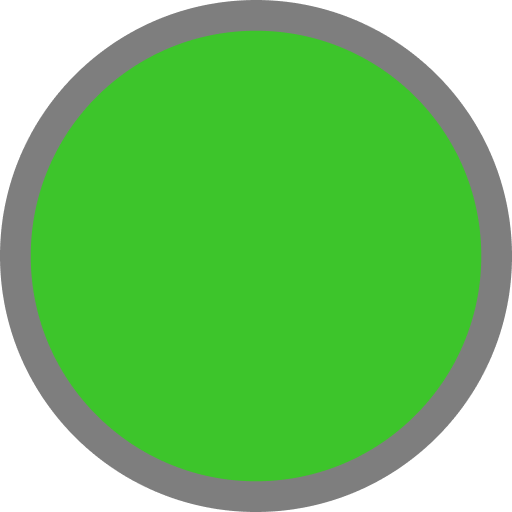
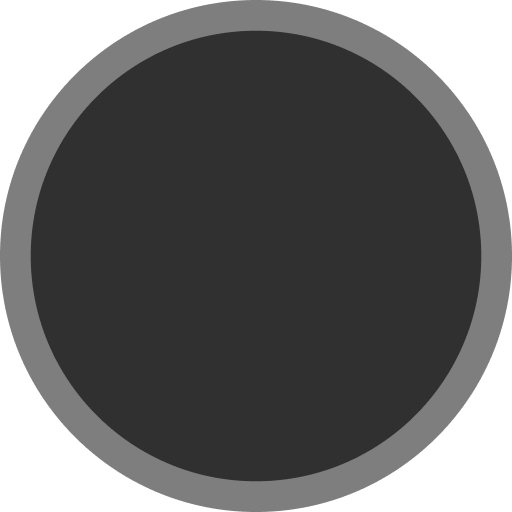
Day1 (3)
+ Increase UX: Add color change for NodeUI

diff --git a/Assets/Script/UI/NodeUI.cs b/Assets/Script/UI/NodeUI.cs
@@ -1,7 +1,6 @@
 using System;
 using System.Collections;
 using System.Collections.Generic;
-using Microsoft.Unity.VisualStudio.Editor;
 using TMPro;
 using UnityEngine;
 using UnityEngine.UI;
@@ -12,6 +11,7 @@ public class NodeUI : HuyMonoBehaviour
     [NonSerialized] private TreeSO treeSO;
     [NonSerialized] private Node node;
     [SerializeField] private NodeIndex nodeIndex;
+    [SerializeField] private Image background;
     [SerializeField] private TextMeshProUGUI nodeName;
     [SerializeField] private Button levelUpBtn;
     [SerializeField] private TextMeshProUGUI levelTxt;
@@ -24,6 +24,7 @@ public class NodeUI : HuyMonoBehaviour
     {
         base.LoadComponents();
         this.LoadComponent(ref this.nodeName, transform.Find("NameTxt"), "LoadNodeName()");
+        this.LoadComponent(ref this.background, transform.Find("Background"), "LoadBackground()");
         this.LoadComponent(ref this.levelUpBtn, transform.Find("LevelUpBtn"), "LoadLevelUpBtn()");
         this.LoadComponent(ref this.levelTxt, transform.Find("LevelTxt"), "LoadLevelBtn()");
     }
@@ -50,7 +51,8 @@ public class NodeUI : HuyMonoBehaviour
     
     private void OnLevelUpBtnClick()
     {
-        this.node.LevelUp(this.treeSO.Rows);
+        if (this.node.LevelUp(this.treeSO.Rows)) this.background.color = Color.green;
+        else this.background.color = Color.red;
         this.levelTxt.text = this.node.currLevel + "/" + this.node.so.MaxLevel;
     }
 }
